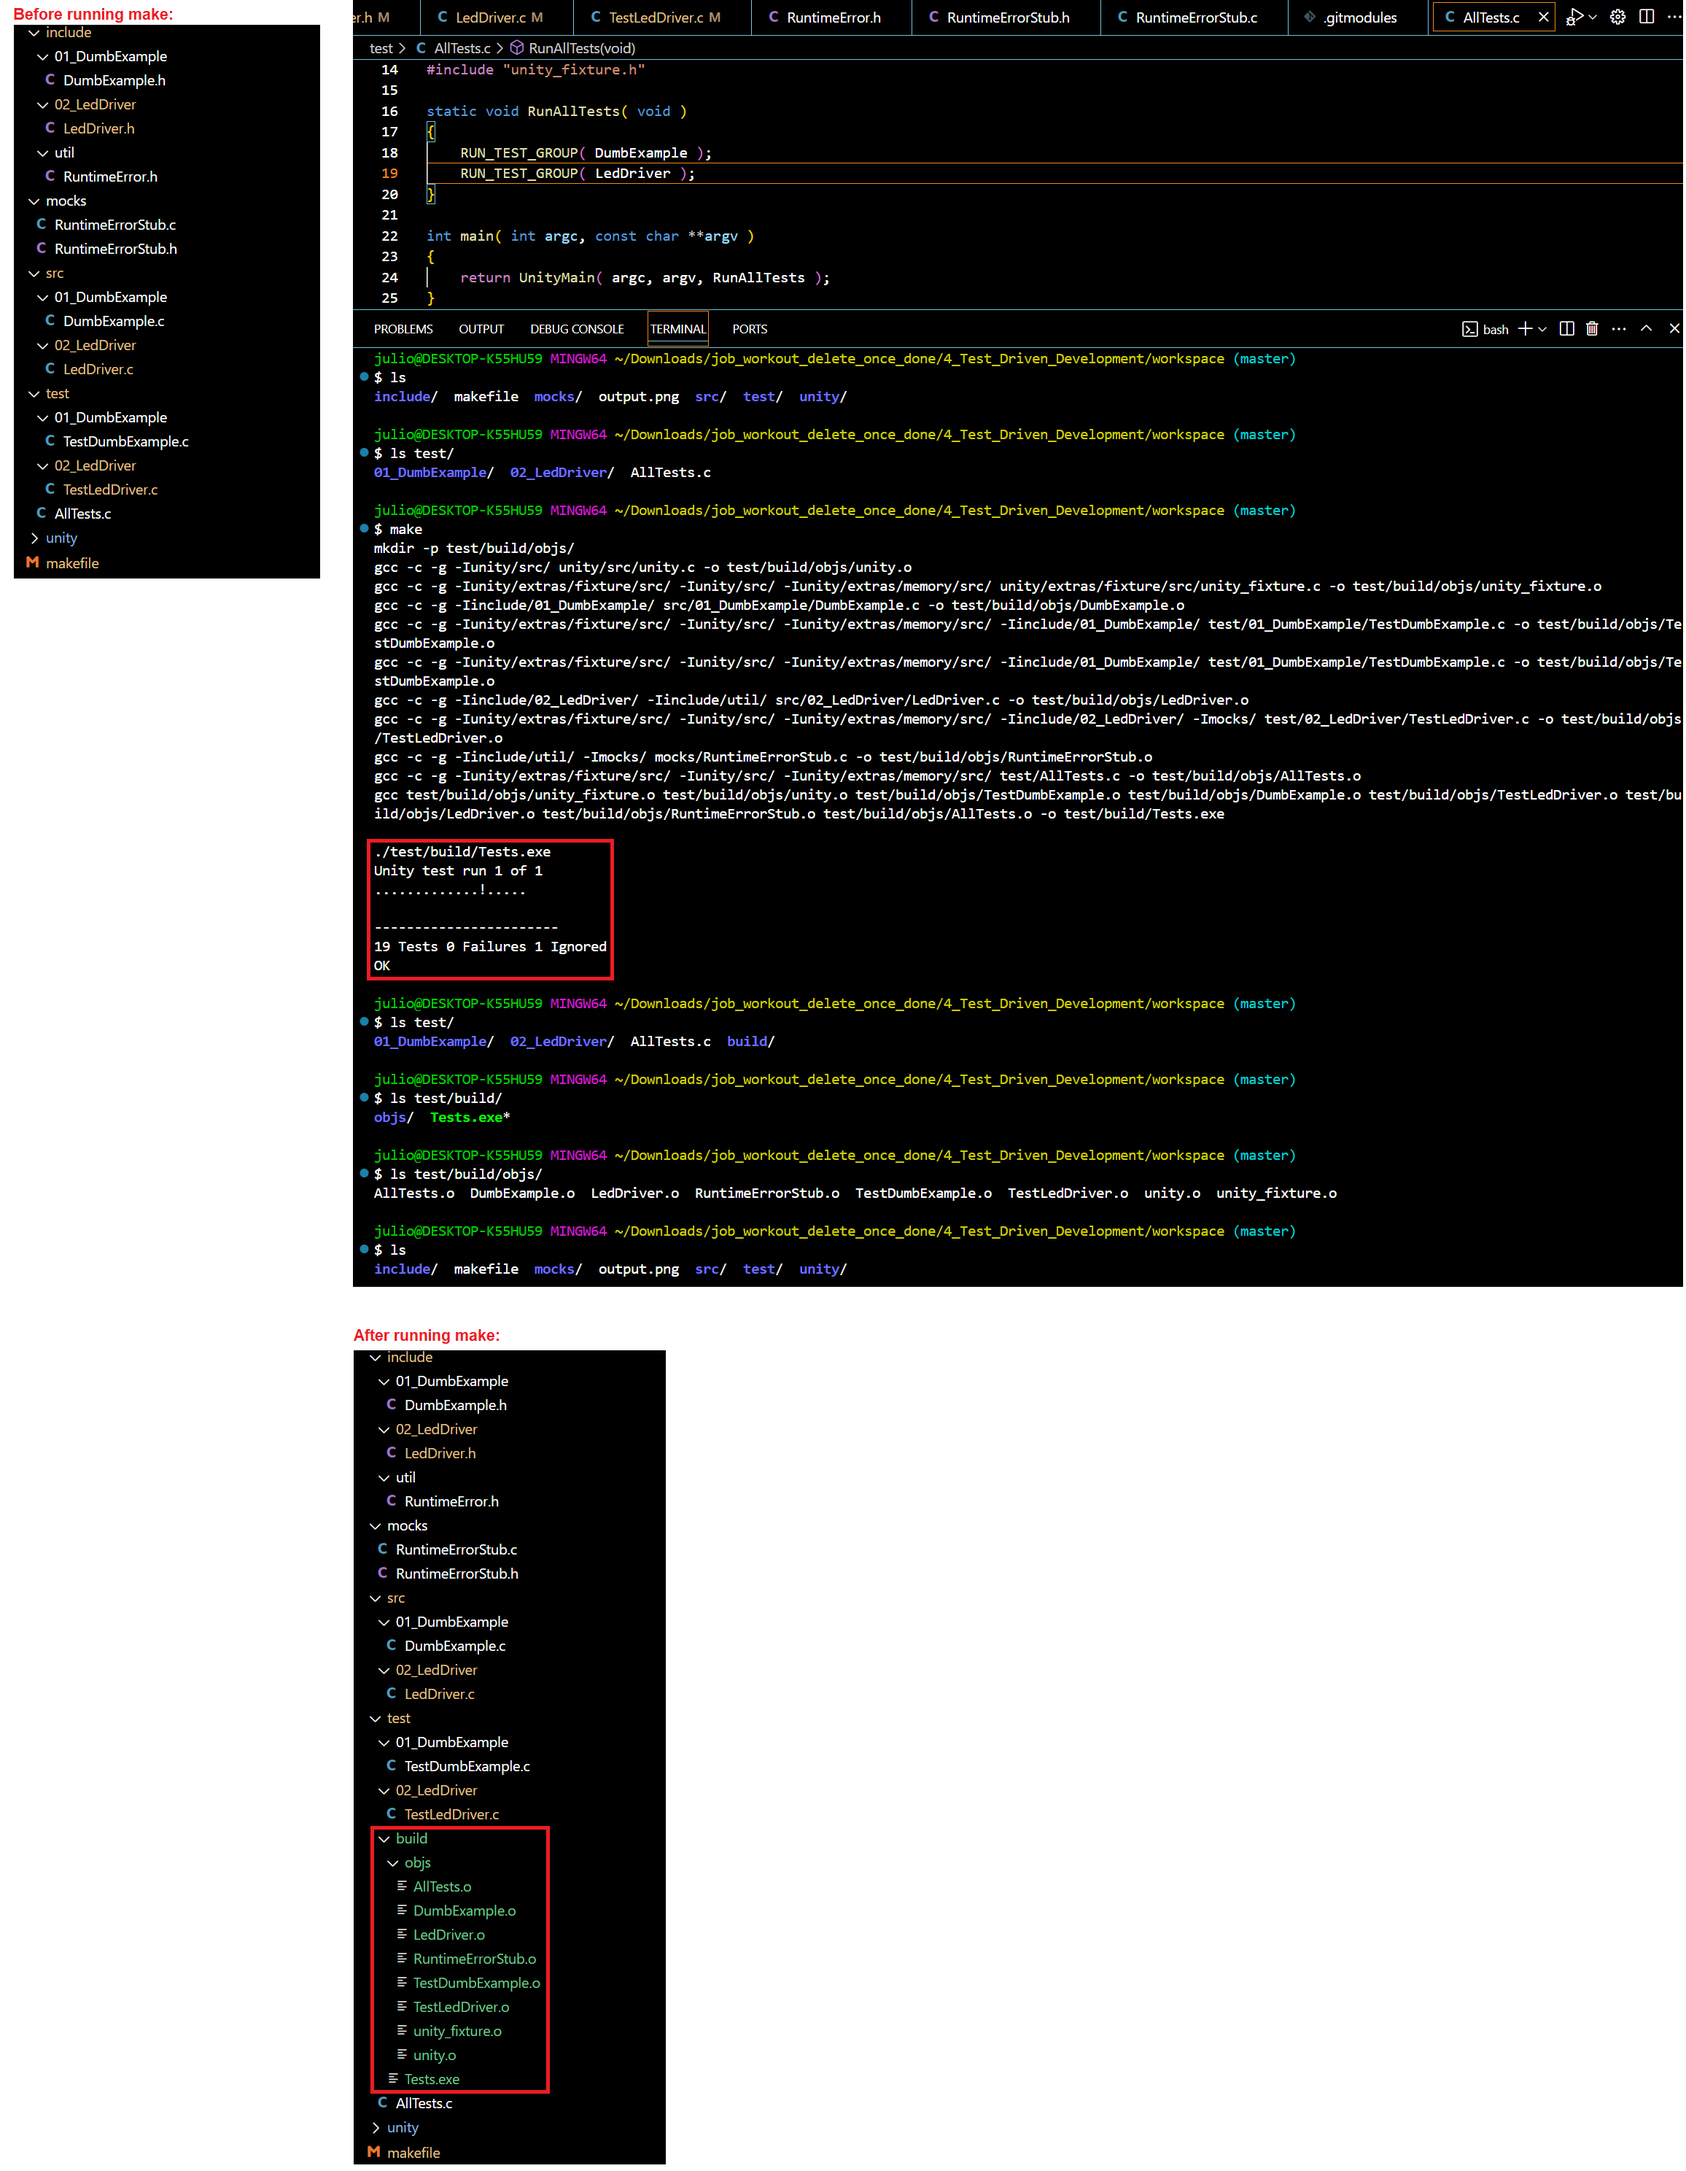
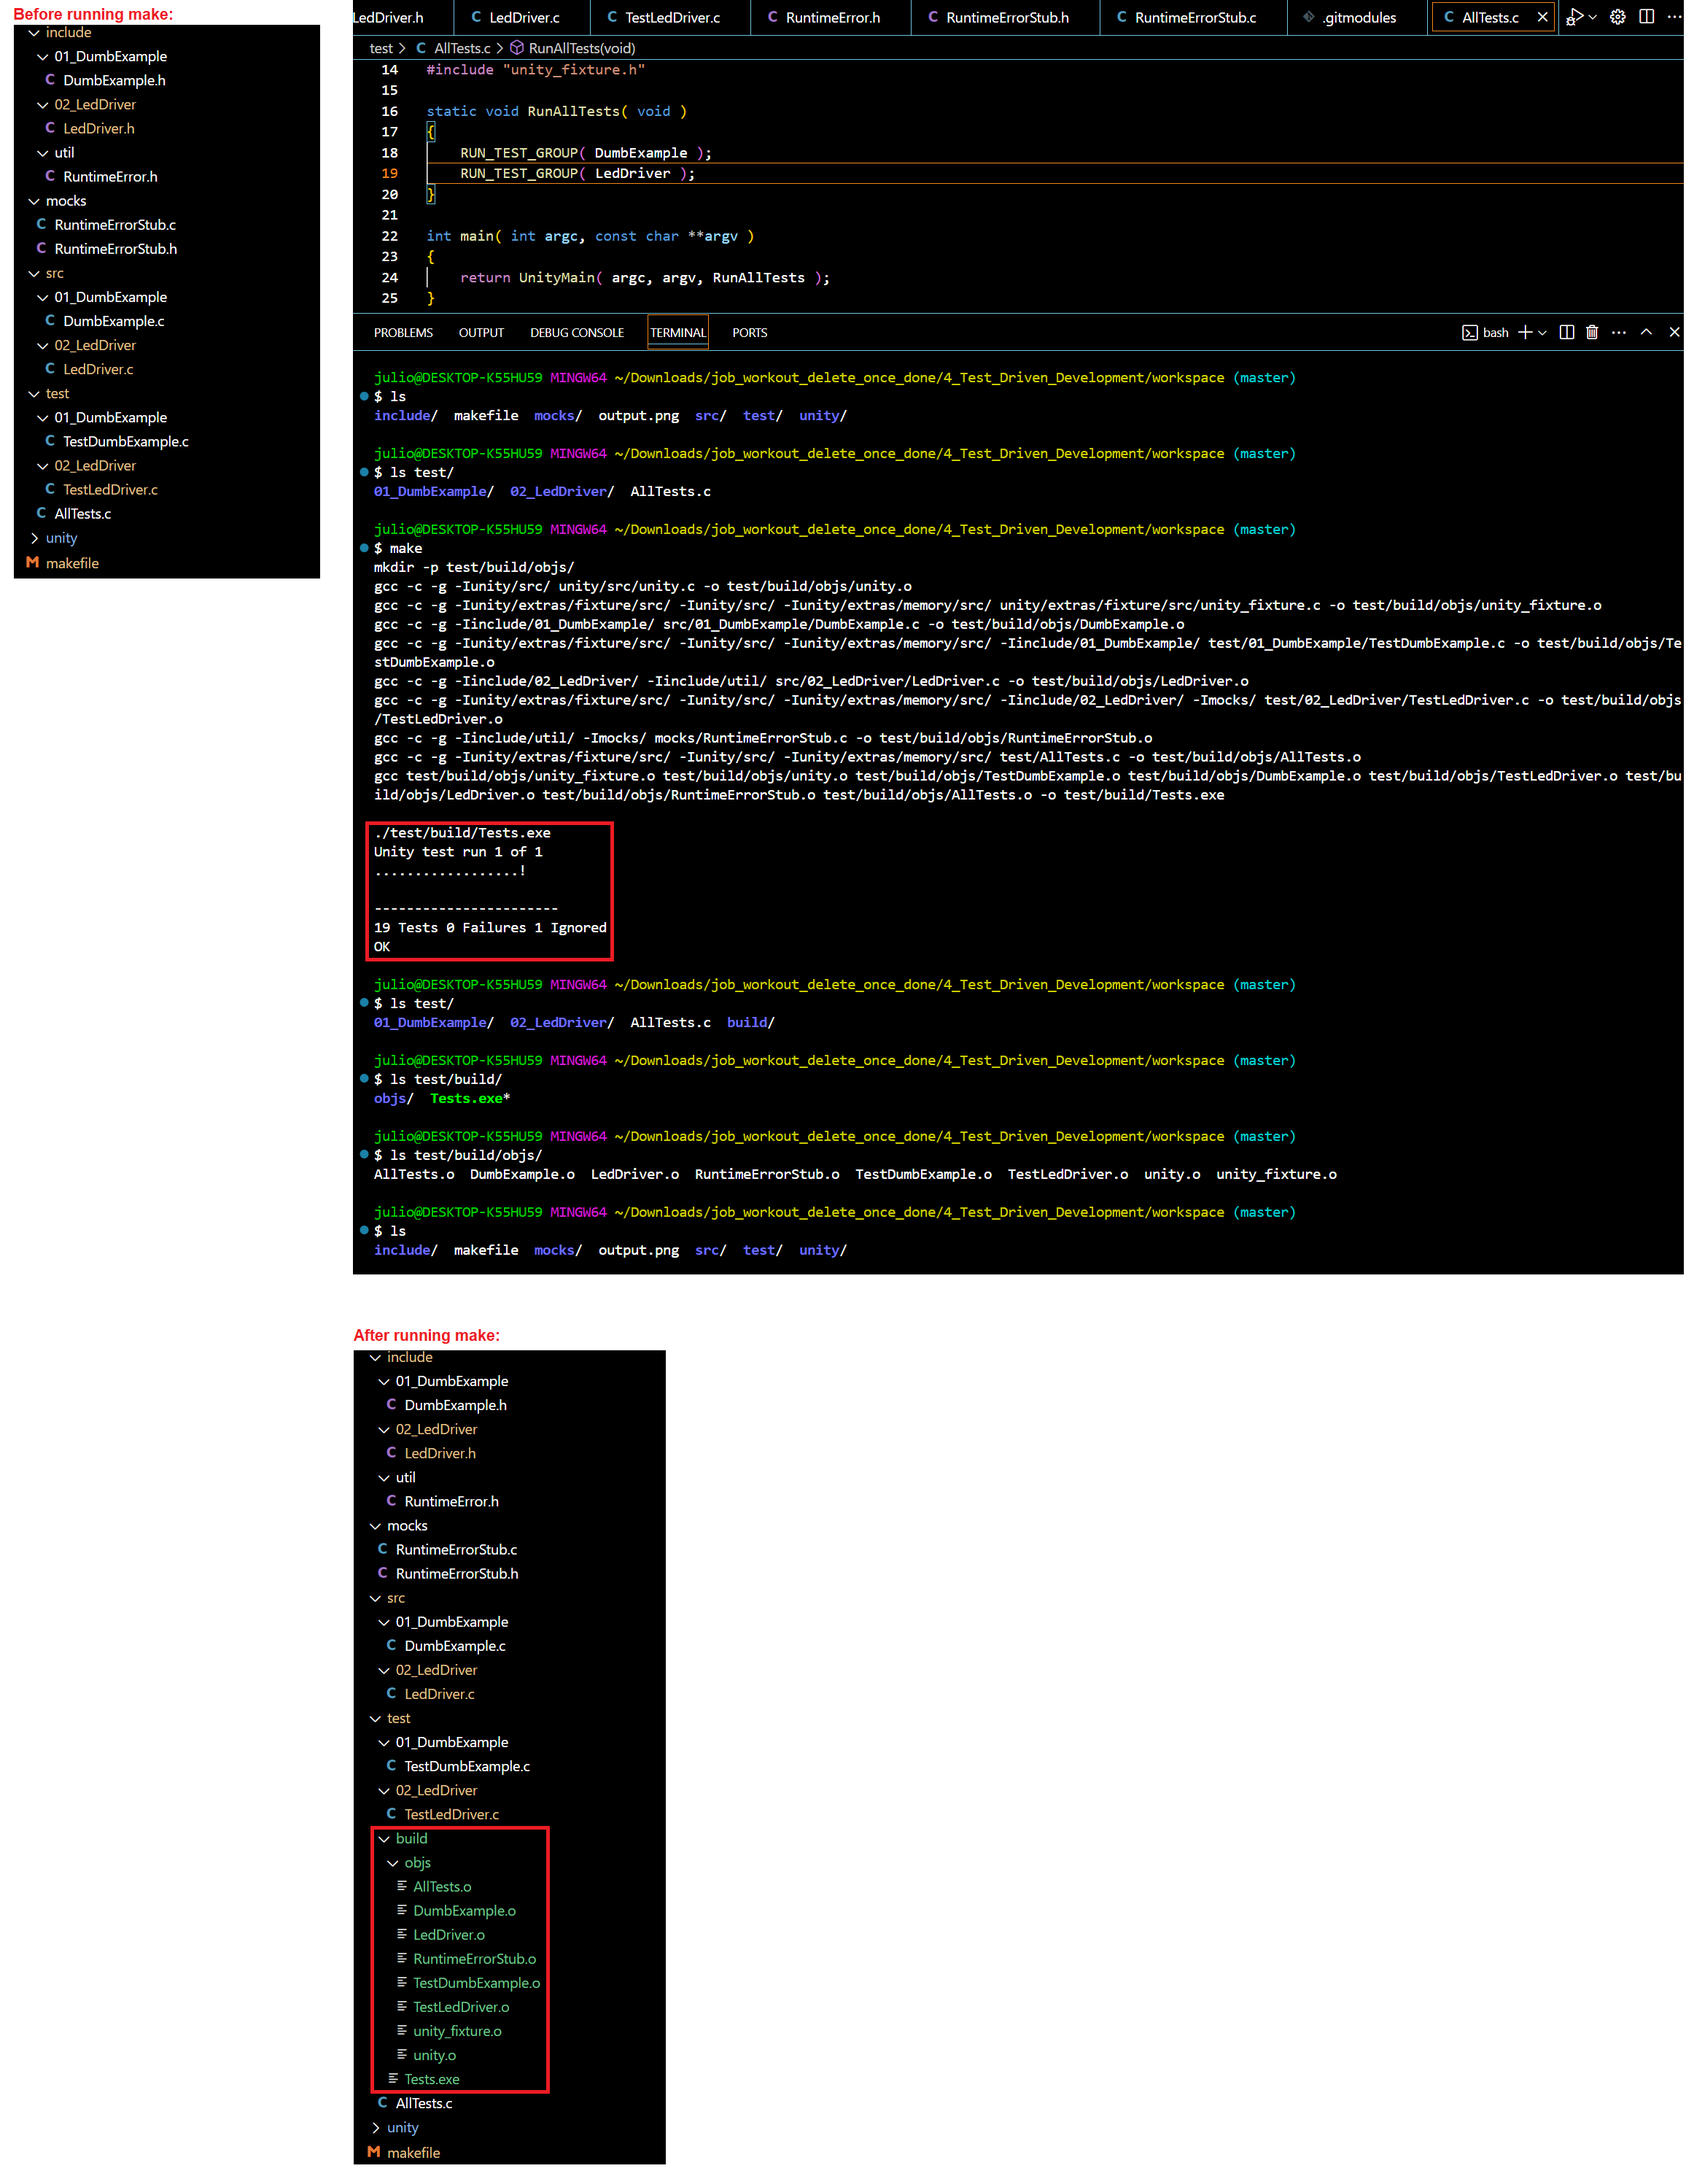
Reorganize LedDriver tests

Changed region(s): [[0.218, 0.0, 1.0, 0.5938], [0.3737, 0.0, 0.4048, 0.0312], [0.2803, 0.0, 0.3114, 0.0312]]

diff --git a/test/02_LedDriver/TestLedDriver.c b/test/02_LedDriver/TestLedDriver.c
@@ -11,13 +11,11 @@
  *          x - All LEDs are off after the driver is initialized
  *          x - A single LED can be turned on
  *          x - A single LED can be turned off
- *          x - Multiple LEDs can be turned on
- *            - Multiple LEDs can be turned off
- *          x - Turn on all LEDs
- *            - Turn off all LEDs
+ *          x - Multiple LEDs can be turned on/off
+ *          x - Turn on/off all LEDs
  *          x - Query LED state
  *          x - Check boundary values
- *            - Check out-of-bounds values:
+ *          x - Check out-of-bounds values:
  *              x - Beyond max breaks nothing
  *              x - Under min breaks nothing
  *              x - Runtime error
@@ -85,29 +83,6 @@ TEST( LedDriver, TurnOnLedOne )
 }
 
 /* TEST 3 */
-TEST( LedDriver, TurnOnMultipleLeds )
-{
-   /* turn on both LEDs 9 and 8 */
-   LedDriver_TurnOn( 8 );
-   LedDriver_TurnOn( 9 );
-
-   /* check both LEDs 9 and 8 are on.
-      The LEDs are numbered 1 through 16, so bit 8 is LED 9
-      and bit 7 is LED 8, which equals 0x180 */
-   TEST_ASSERT_EQUAL_HEX16( 0x180, virtualLeds );
-}
-
-/* TEST 4 */
-TEST( LedDriver, AllOn )
-{
-   /* turn on all the 16 LEDs */
-   LedDriver_TurnAllOn();
-
-   /* check all LEDs are on */
-   TEST_ASSERT_EQUAL_HEX( 0xffff, virtualLeds );
-}
-
-/* TEST 5 */
 TEST( LedDriver, TurnOffLedOne )
 {
    /* turn the first LED (LED 1) on */
@@ -121,7 +96,7 @@ TEST( LedDriver, TurnOffLedOne )
    TEST_ASSERT_EQUAL_HEX16( 0, virtualLeds );
 }
 
-/* TEST 6 */
+/* TEST 4 */
 TEST( LedDriver, TurnOffAnyLed )
 {
    /* turn on all LEDs */
@@ -134,7 +109,95 @@ TEST( LedDriver, TurnOffAnyLed )
    TEST_ASSERT_EQUAL_HEX16( 0xff7f, virtualLeds );
 }
 
-/* TEST 7 */ 
+/* TEST 5 */
+TEST( LedDriver, TurnOnMultipleLeds )
+{
+   /* turn on both LEDs 9 and 8 */
+   LedDriver_TurnOn( 8 );
+   LedDriver_TurnOn( 9 );
+
+   /* check both LEDs 9 and 8 are on.
+      The LEDs are numbered 1 through 16, so bit 8 is LED 9
+      and bit 7 is LED 8, which equals 0x180 */
+   TEST_ASSERT_EQUAL_HEX16( 0x180, virtualLeds );
+}
+
+/* TEST 6 */
+TEST( LedDriver, TurnOffMultipleLeds )
+{
+   /* virtualLeds is first initialized to 0 (all LEDs off) due to
+      the calling to LedDriver_Create() before each test's execution */
+
+   /* turn on all the 16 LEDs */
+   LedDriver_TurnAllOn();
+   
+   /* turn off both LEDs 8 and 9 */
+   LedDriver_TurnOff( 8 );
+   LedDriver_TurnOff( 9 );
+
+   /* check only LEDs 9 and 8 are off () */
+   TEST_ASSERT_EQUAL_HEX16( ~0x180 & 0xFFFF, virtualLeds );
+}
+
+/* TEST 7 */
+TEST( LedDriver, AllOn )
+{
+   /* turn on all the 16 LEDs */
+   LedDriver_TurnAllOn();
+
+   /* check all LEDs are on */
+   TEST_ASSERT_EQUAL_HEX( 0xffff, virtualLeds );
+}
+
+/* TEST 8 */
+TEST( LedDriver, AllOff )
+{
+   /* virtualLeds is first initialized to 0 (all LEDs off) due to
+      the calling to LedDriver_Create() before each test's execution */
+
+   /* turn on all the 16 LEDs */
+   LedDriver_TurnAllOn();
+
+   /* turn on all the 16 LEDs */
+   LedDriver_TurnAllOff();
+
+   /* check all LEDs are off */
+   TEST_ASSERT_EQUAL_HEX16( 0, virtualLeds );
+}
+
+/* TEST 9 */
+TEST( LedDriver, IsOn )
+{
+   /* *ledsAddress is first initialized to 0 (all LEDs off) due to
+      the calling to LedDriver_Create() before each test's execution */
+
+   /* check LED 11 is not on */
+   TEST_ASSERT_FALSE( LedDriver_IsOn( 11 ) );
+
+   /* turn on LED 11 */
+   LedDriver_TurnOn( 11 );
+
+   /* check LED 11 is on */
+   TEST_ASSERT_TRUE( LedDriver_IsOn( 11 ) );
+}
+
+/* TEST 10 */ 
+TEST( LedDriver, IsOff )
+{
+   /* *ledsAddress is first initialized to 0 (all LEDs off) due to
+      the calling to LedDriver_Create() before each test's execution */
+      
+   /* check LED 12 is off */
+   TEST_ASSERT_TRUE( LedDriver_IsOff( 12 ) );
+
+   /* turn on LED 12 */
+   LedDriver_TurnOn( 12 );
+
+   /* check LED 12 is not off */
+   TEST_ASSERT_FALSE( LedDriver_IsOff( 12 ) );
+}
+
+/* TEST 11 */ 
 TEST( LedDriver, LedMemoryIsNotReadable )
 {
    /* virtualLeds is first initialized to 0 (all LEDs off) due to
@@ -153,7 +216,7 @@ TEST( LedDriver, LedMemoryIsNotReadable )
    TEST_ASSERT_EQUAL_HEX16( 0x80, virtualLeds );
 }
 
-/* TEST 8 */
+/* TEST 12 */
 TEST( LedDriver, UpperAndLowerBounds )
 {
    /* this test checks the upper and lower bounds of the legal LED values */
@@ -166,7 +229,7 @@ TEST( LedDriver, UpperAndLowerBounds )
    TEST_ASSERT_EQUAL_HEX16( 0x8001, virtualLeds );
 }
 
-/* TEST 9 */
+/* TEST 13 */
 TEST( LedDriver, OutOfBoundsTurnOnDoesNoHarm )
 {
    /* this test exercises the LedDriver with some fence-post values
@@ -181,7 +244,7 @@ TEST( LedDriver, OutOfBoundsTurnOnDoesNoHarm )
    TEST_ASSERT_EQUAL_HEX16( 0, virtualLeds );
 }
 
-/* TEST 10 */
+/* TEST 14 */
 TEST( LedDriver, OutOfBoundsTurnOffDoesNoHarm )
 {
    /* this test exercises the LedDriver with some fence-post values
@@ -201,7 +264,7 @@ TEST( LedDriver, OutOfBoundsTurnOffDoesNoHarm )
    TEST_ASSERT_EQUAL_HEX16( 0xffff, virtualLeds );
 }
 
-/* TEST 11 */
+/* TEST 15 */
 TEST( LedDriver, OutOfBoundsProducesRuntimeError )
 {
    const char *errorMessage;
@@ -223,45 +286,7 @@ TEST( LedDriver, OutOfBoundsProducesRuntimeError )
    TEST_ASSERT_EQUAL( ( uint16_t ) -2, errorParameter );
 }
 
-/* TEST 12 */
-IGNORE_TEST( LedDriver, OutOfBoundsToDo )
-{
-   /* TODO: what should we do during runtime? */
-}
-
-/* TEST 13 */
-TEST( LedDriver, IsOn )
-{
-   /* *ledsAddress is first initialized to 0 (all LEDs off) due to
-      the calling to LedDriver_Create() before each test's execution */
-
-   /* check LED 11 is not on */
-   TEST_ASSERT_FALSE( LedDriver_IsOn( 11 ) );
-
-   /* turn on LED 11 */
-   LedDriver_TurnOn( 11 );
-
-   /* check LED 11 is on */
-   TEST_ASSERT_TRUE( LedDriver_IsOn( 11 ) );
-}
-
-/* TEST 14 */ 
-TEST( LedDriver, IsOff )
-{
-   /* *ledsAddress is first initialized to 0 (all LEDs off) due to
-      the calling to LedDriver_Create() before each test's execution */
-      
-   /* check LED 12 is off */
-   TEST_ASSERT_TRUE( LedDriver_IsOff( 12 ) );
-
-   /* turn on LED 12 */
-   LedDriver_TurnOn( 12 );
-
-   /* check LED 12 is not off */
-   TEST_ASSERT_FALSE( LedDriver_IsOff( 12 ) );
-}
-
-/* TEST 15 */ 
+/* TEST 16 */ 
 TEST( LedDriver, OutOfBoundsLedsAreAlwaysOff )
 {
    /* *ledsAddress is first initialized to 0 (all LEDs off) due to
@@ -279,37 +304,10 @@ TEST( LedDriver, OutOfBoundsLedsAreAlwaysOff )
    TEST_ASSERT_TRUE( LedDriver_IsOff( 17 ) );
 }
 
-/* TEST 16 */
-TEST( LedDriver, TurnOffMultipleLeds )
-{
-   /* virtualLeds is first initialized to 0 (all LEDs off) due to
-      the calling to LedDriver_Create() before each test's execution */
-
-   /* turn on all the 16 LEDs */
-   LedDriver_TurnAllOn();
-   
-   /* turn off both LEDs 8 and 9 */
-   LedDriver_TurnOff( 8 );
-   LedDriver_TurnOff( 9 );
-
-   /* check only LEDs 9 and 8 are off () */
-   TEST_ASSERT_EQUAL_HEX16( ~0x180 & 0xFFFF, virtualLeds );
-}
-
 /* TEST 17 */
-TEST( LedDriver, AllOff )
+IGNORE_TEST( LedDriver, OutOfBoundsToDo )
 {
-   /* virtualLeds is first initialized to 0 (all LEDs off) due to
-      the calling to LedDriver_Create() before each test's execution */
-
-   /* turn on all the 16 LEDs */
-   LedDriver_TurnAllOn();
-
-   /* turn on all the 16 LEDs */
-   LedDriver_TurnAllOff();
-
-   /* check all LEDs are off */
-   TEST_ASSERT_EQUAL_HEX16( 0, virtualLeds );
+   /* TODO: what should we do during runtime? */
 }
 
 TEST_GROUP_RUNNER( LedDriver )
@@ -321,47 +319,47 @@ TEST_GROUP_RUNNER( LedDriver )
    RUN_TEST_CASE( LedDriver, TurnOnLedOne );
 
    /* TEST 3 */
-   RUN_TEST_CASE( LedDriver, TurnOnMultipleLeds );
-
-   /* TEST 4 */
-   RUN_TEST_CASE( LedDriver, AllOn );
-
-   /* TEST 5 */
    RUN_TEST_CASE( LedDriver, TurnOffLedOne );
 
-   /* TEST 6 */
+   /* TEST 4 */
    RUN_TEST_CASE( LedDriver, TurnOffAnyLed );
 
-   /* TEST 7 */
-   RUN_TEST_CASE( LedDriver, LedMemoryIsNotReadable );
+   /* TEST 5 */
+   RUN_TEST_CASE( LedDriver, TurnOnMultipleLeds );
 
-   /* TEST 8 */
-   RUN_TEST_CASE( LedDriver, UpperAndLowerBounds );
-
-   /* TEST 9 */
-   RUN_TEST_CASE( LedDriver, OutOfBoundsTurnOnDoesNoHarm );
-
-   /* TEST 10 */
-   RUN_TEST_CASE( LedDriver, OutOfBoundsTurnOffDoesNoHarm );
-
-   /* TEST 11 */
-   RUN_TEST_CASE( LedDriver, OutOfBoundsProducesRuntimeError );
-
-   /* TEST 12 */
-   RUN_TEST_CASE( LedDriver, OutOfBoundsToDo );
-
-   /* TEST 13 */
-   RUN_TEST_CASE( LedDriver, IsOn );
-
-   /* TEST 14 */
-   RUN_TEST_CASE( LedDriver, IsOff );
-
-   /* TEST 15 */
-   RUN_TEST_CASE( LedDriver, OutOfBoundsLedsAreAlwaysOff );
-
-   /* TEST 16 */
+   /* TEST 6 */
    RUN_TEST_CASE( LedDriver, TurnOffMultipleLeds );
 
-   /* TEST 17 */
+   /* TEST 7 */
+   RUN_TEST_CASE( LedDriver, AllOn );
+
+   /* TEST 8 */
    RUN_TEST_CASE( LedDriver, AllOff );
+
+   /* TEST 9 */
+   RUN_TEST_CASE( LedDriver, IsOn );
+
+   /* TEST 10 */
+   RUN_TEST_CASE( LedDriver, IsOff );
+
+   /* TEST 11 */
+   RUN_TEST_CASE( LedDriver, LedMemoryIsNotReadable );
+
+   /* TEST 12 */
+   RUN_TEST_CASE( LedDriver, UpperAndLowerBounds );
+
+   /* TEST 13 */
+   RUN_TEST_CASE( LedDriver, OutOfBoundsTurnOnDoesNoHarm );
+
+   /* TEST 14 */
+   RUN_TEST_CASE( LedDriver, OutOfBoundsTurnOffDoesNoHarm );
+
+   /* TEST 15 */
+   RUN_TEST_CASE( LedDriver, OutOfBoundsProducesRuntimeError );
+
+   /* TEST 16 */
+   RUN_TEST_CASE( LedDriver, OutOfBoundsLedsAreAlwaysOff );
+
+   /* TEST 17 */
+   RUN_TEST_CASE( LedDriver, OutOfBoundsToDo );
 }
